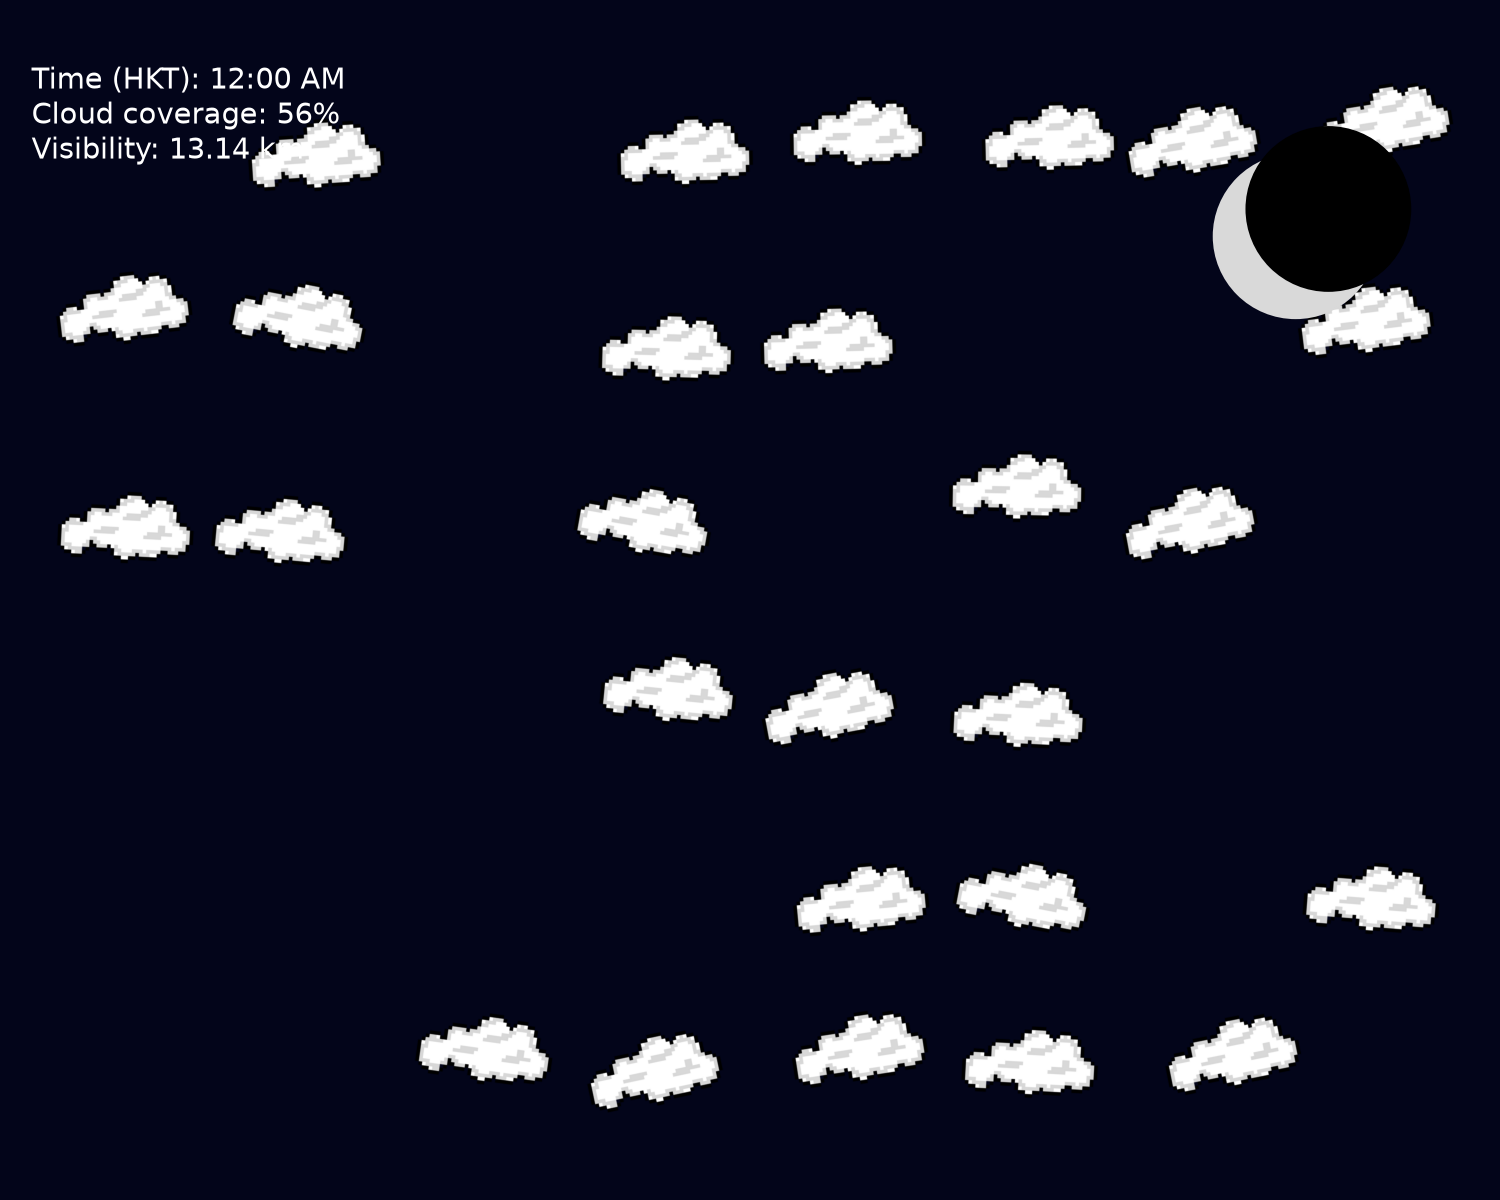
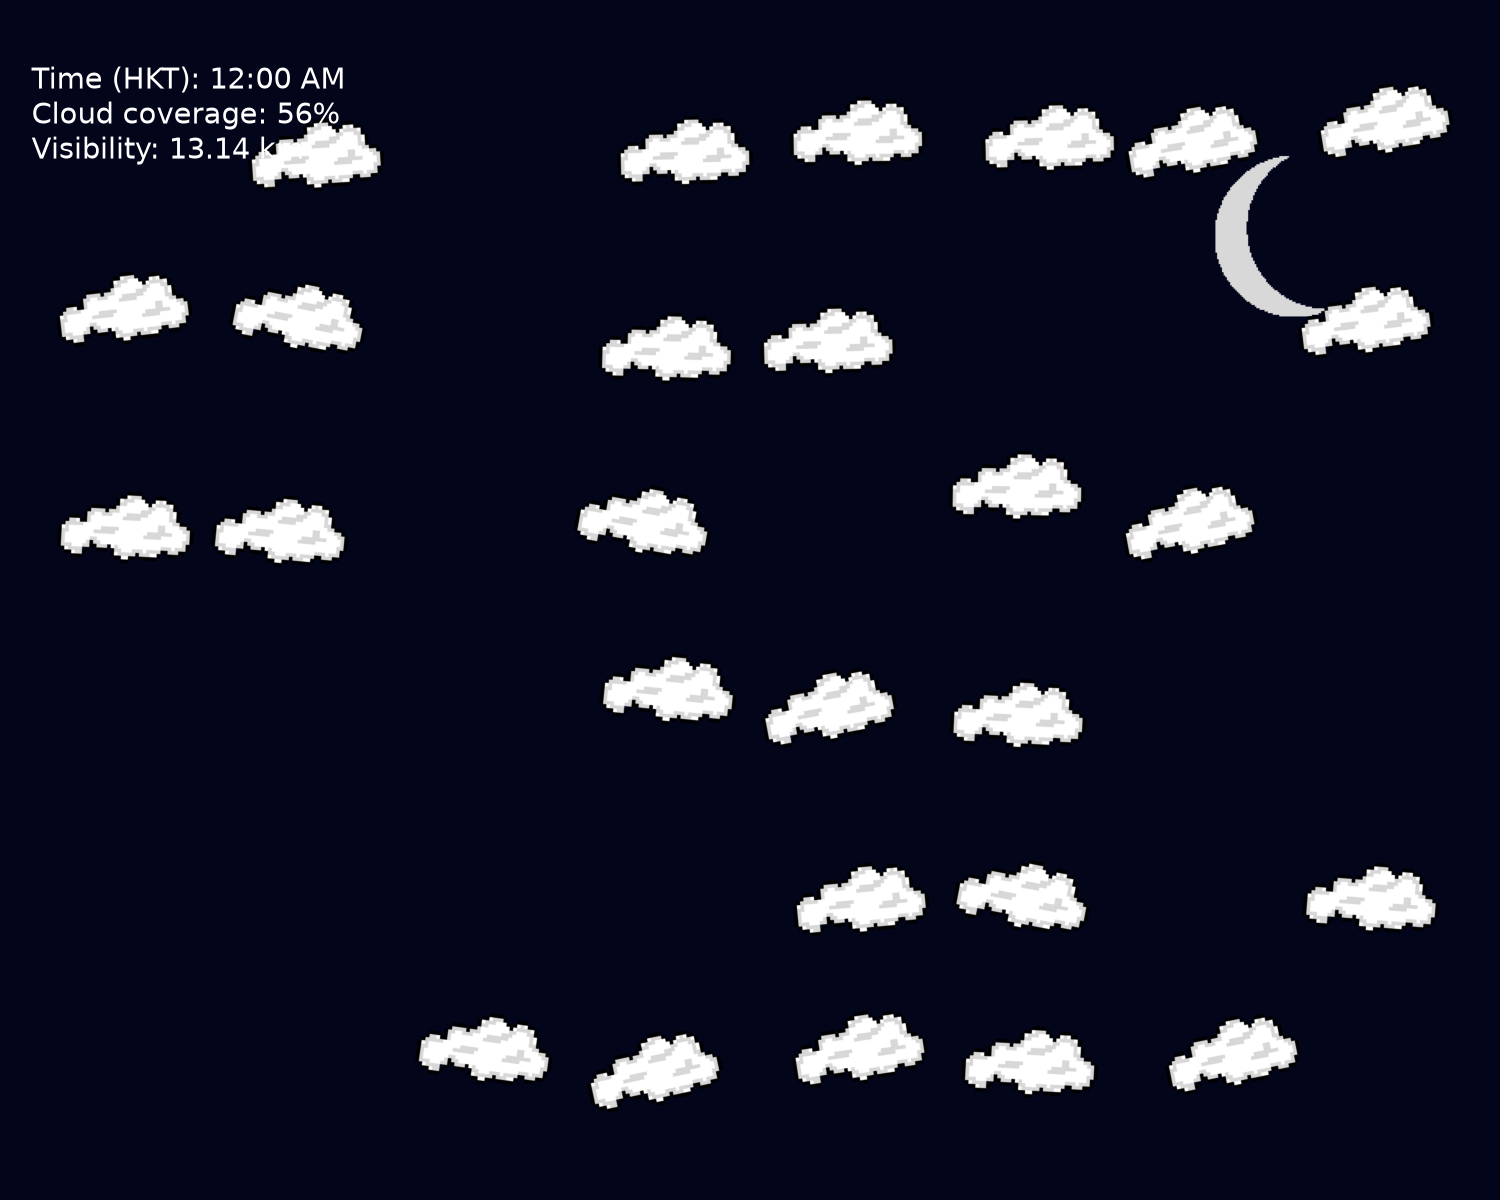
Fixed moon rendering

Changed region(s): [[0.828, 0.0925, 0.9507, 0.2775]]

diff --git a/plot.py b/plot.py
@@ -1,6 +1,6 @@
 # /// script
 # requires-python = ">=3.10"
-# dependencies = ["matplotlib"]
+# dependencies = ["matplotlib", "numpy"]
 # ///
 
 """
@@ -22,6 +22,7 @@ import matplotlib.pyplot as plt
 from matplotlib.image import imread
 from matplotlib.patches import Circle
 from matplotlib.transforms import Affine2D
+import numpy as np
 from fetch import FILE
 
 PICTURE = "plot.png"                           # what goes into out/, and into the README
@@ -47,6 +48,16 @@ def lerp_color(start, end, amount):
         start_channel + (end_channel - start_channel) * amount
         for start_channel, end_channel in zip(start, end)
     )
+
+def moon_image():
+    coordinates = np.linspace(-1, 1, 100)
+    x, y = np.meshgrid(coordinates, coordinates)
+    moon = x**2 + y**2 <= 1
+    cutout = (x - 0.4)**2 + (y + 0.1)**2 <= 1
+    image = np.zeros((100, 100, 4))
+    image[..., :3] = (0.85, 0.85, 0.85)
+    image[..., 3] = moon & ~cutout
+    return image
 
 def main():
     table = rows(DATA)
@@ -84,8 +95,7 @@ def main():
     if sunrise <= hkt_time < sunset:
         ax.add_patch(Circle((7, 5), 0.45, color="#ffd34e"))
     else:
-        ax.add_patch(Circle((7, 5), 0.45, color="#d9d9d9"))
-        ax.add_patch(Circle((7.18, 5.15), 0.45, color="black"))
+        ax.imshow(moon_image(), extent=(6.55, 7.45, 4.55, 5.45))
     cloud = imread(SPRITE)
     variation = random.Random(42)
     positions = [(x, y) for x in range(8) for y in range(6)]
